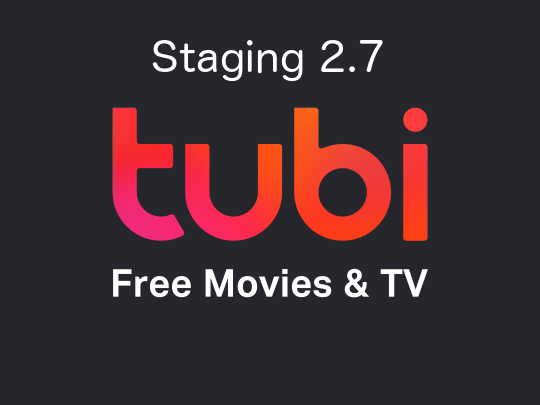
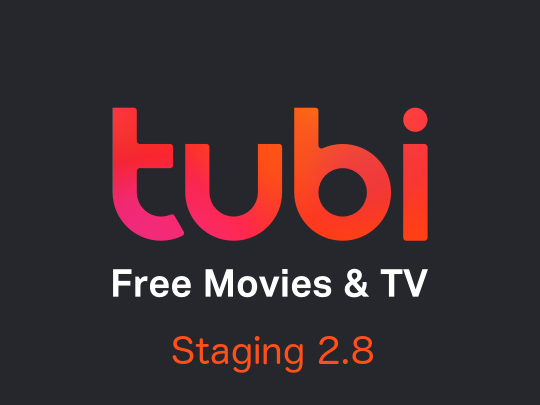
update necessary files for creating a new 2.8 version (#831)

diff --git a/README.md b/README.md
@@ -142,9 +142,9 @@ $ git push --tags
 6\. Submit build to Roku (only for submission builds)
 
 - Create a new `new_images_since_x_y` file where x and y are the major and minor build numbers
-- Update the Makefile with the new `new_images_since_x_y` path (2 variables should be updated)
+- Update the Makefile with the new `new_images_since_x_y` path (3 instances should be updated)
 - Create a new hotpatch for the new version (ie. 2.7.brs)
-- Move any necessary logic from the previous version's hotpatch to the new version's hotpathc
+- Move any necessary logic from the previous version's hotpatch to the new version's hotpatch
 - Update version numbers in `config/build.yml`
   - Increment `minor_version`
   - set `build_version` to `1`
